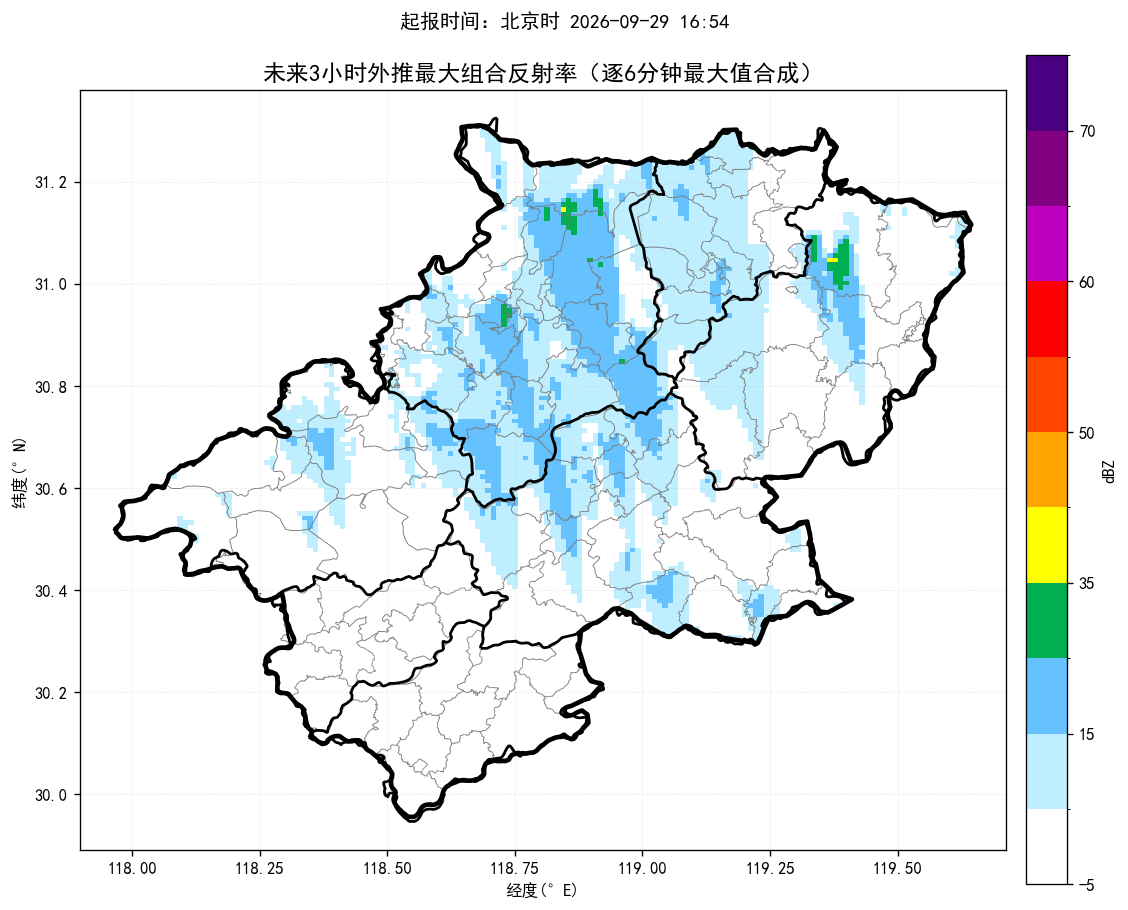
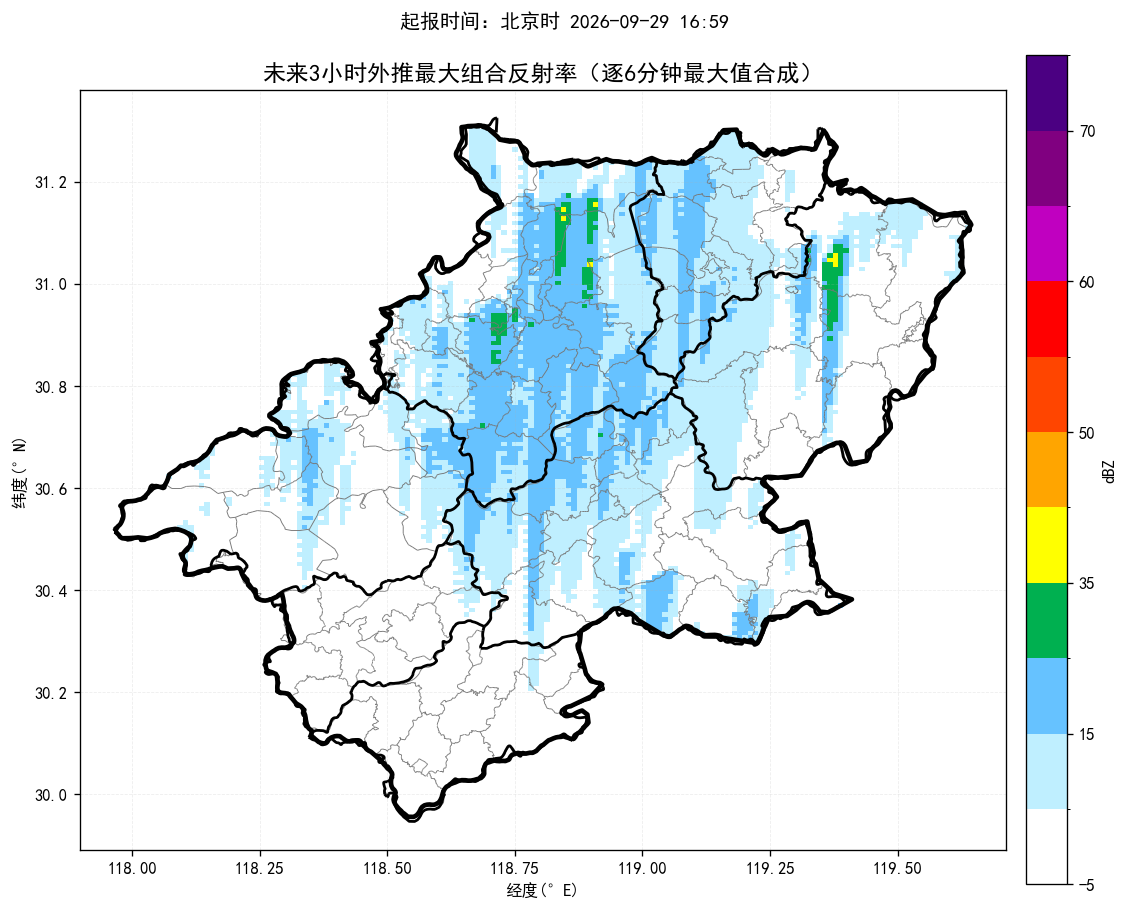
update nowcast products

diff --git a/index.html b/index.html
@@ -14,14 +14,14 @@ img.product{display:block;width:100%;height:auto;margin:10px auto 26px;border:1p
 .footer{font-size:13px;color:#777;text-align:center;margin-top:30px}
 @media(max-width:700px){.sheet{margin:0;padding:18px 15px}.alert-title{font-size:22px}.county-line{font-size:17px}.prob{font-size:18px}}
 </style></head><body><main class="sheet">
-<div class="time">起报时间：北京时 2026-09-29 16:54</div>
+<div class="time">起报时间：北京时 2026-09-29 16:59</div>
 <div class="alert-title">未来一小时降水量超过 20 毫米的乡镇：</div><div class="county-line">无</div>
 <div class="alert-title">未来三小时降水量超过 50 毫米的乡镇：</div><div class="county-line">无</div>
 <div class="alert-title">未来三小时雷暴大风（组合反射率 > 55 dBZ）的乡镇：</div><div class="county-line">无</div>
-<div class="prob">最大降水量概率预估：宣城市范围内未来三小时降水偏小，最大预报约1.4毫米，暂不进行50/80/100毫米概率预估。</div>
-<div class="section-title">未来降水预报图：</div><img class="product auto-refresh-product" data-src="短临降水预报.png" src="短临降水预报.png?v=20260929170000" alt="未来降水预报图">
-<div class="section-title">未来三小时组合反射率图：</div><img class="product auto-refresh-product" data-src="未来3小时组合反射率.png" src="未来3小时组合反射率.png?v=20260929170000" alt="未来三小时组合反射率图">
-<div class="section-title">未来三小时雷暴大风图：</div><img class="product auto-refresh-product" data-src="未来3小时雷暴大风.png" src="未来3小时雷暴大风.png?v=20260929170000" alt="未来三小时雷暴大风图">
+<div class="prob">最大降水量概率预估：宣城市范围内未来三小时降水偏小，最大预报约3.2毫米，暂不进行50/80/100毫米概率预估。</div>
+<div class="section-title">未来降水预报图：</div><img class="product auto-refresh-product" data-src="短临降水预报.png" src="短临降水预报.png?v=20260929170539" alt="未来降水预报图">
+<div class="section-title">未来三小时组合反射率图：</div><img class="product auto-refresh-product" data-src="未来3小时组合反射率.png" src="未来3小时组合反射率.png?v=20260929170539" alt="未来三小时组合反射率图">
+<div class="section-title">未来三小时雷暴大风图：</div><img class="product auto-refresh-product" data-src="未来3小时雷暴大风.png" src="未来3小时雷暴大风.png?v=20260929170539" alt="未来三小时雷暴大风图">
 <div class="footer">三张产品图每 60 秒自动刷新一次；每次请求自动附加新的URL参数以绕过缓存。</div>
 <script>
 (function() {
